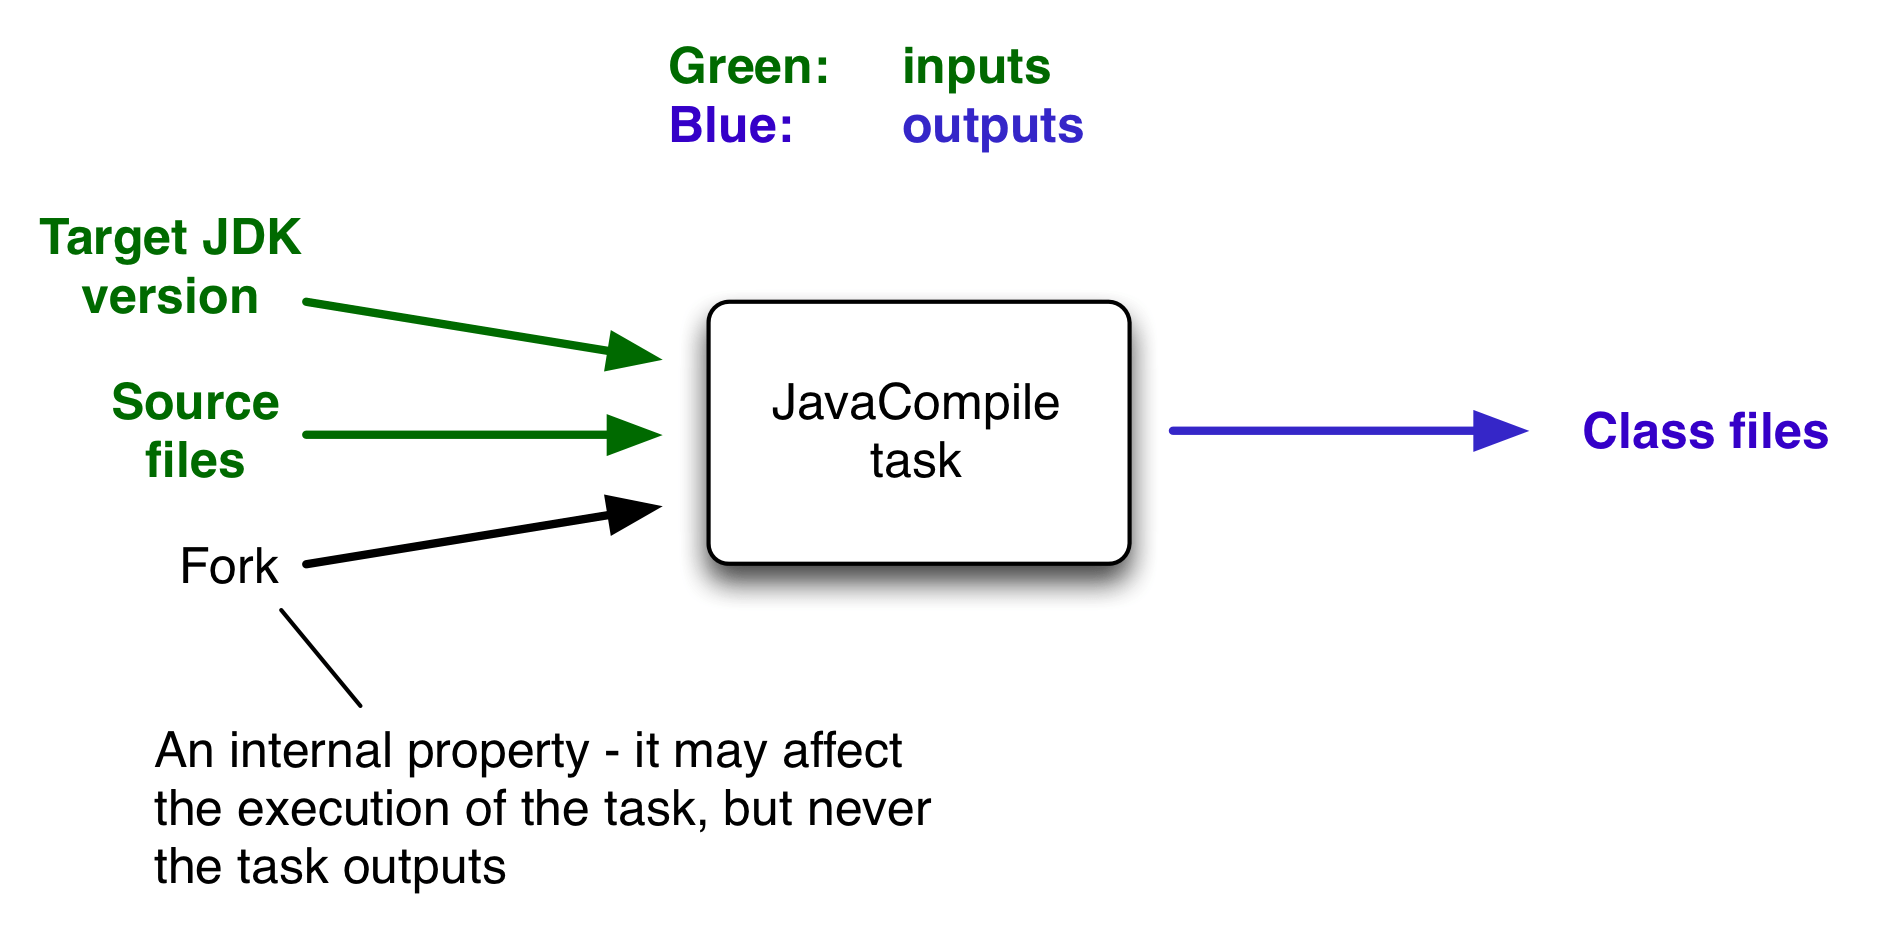
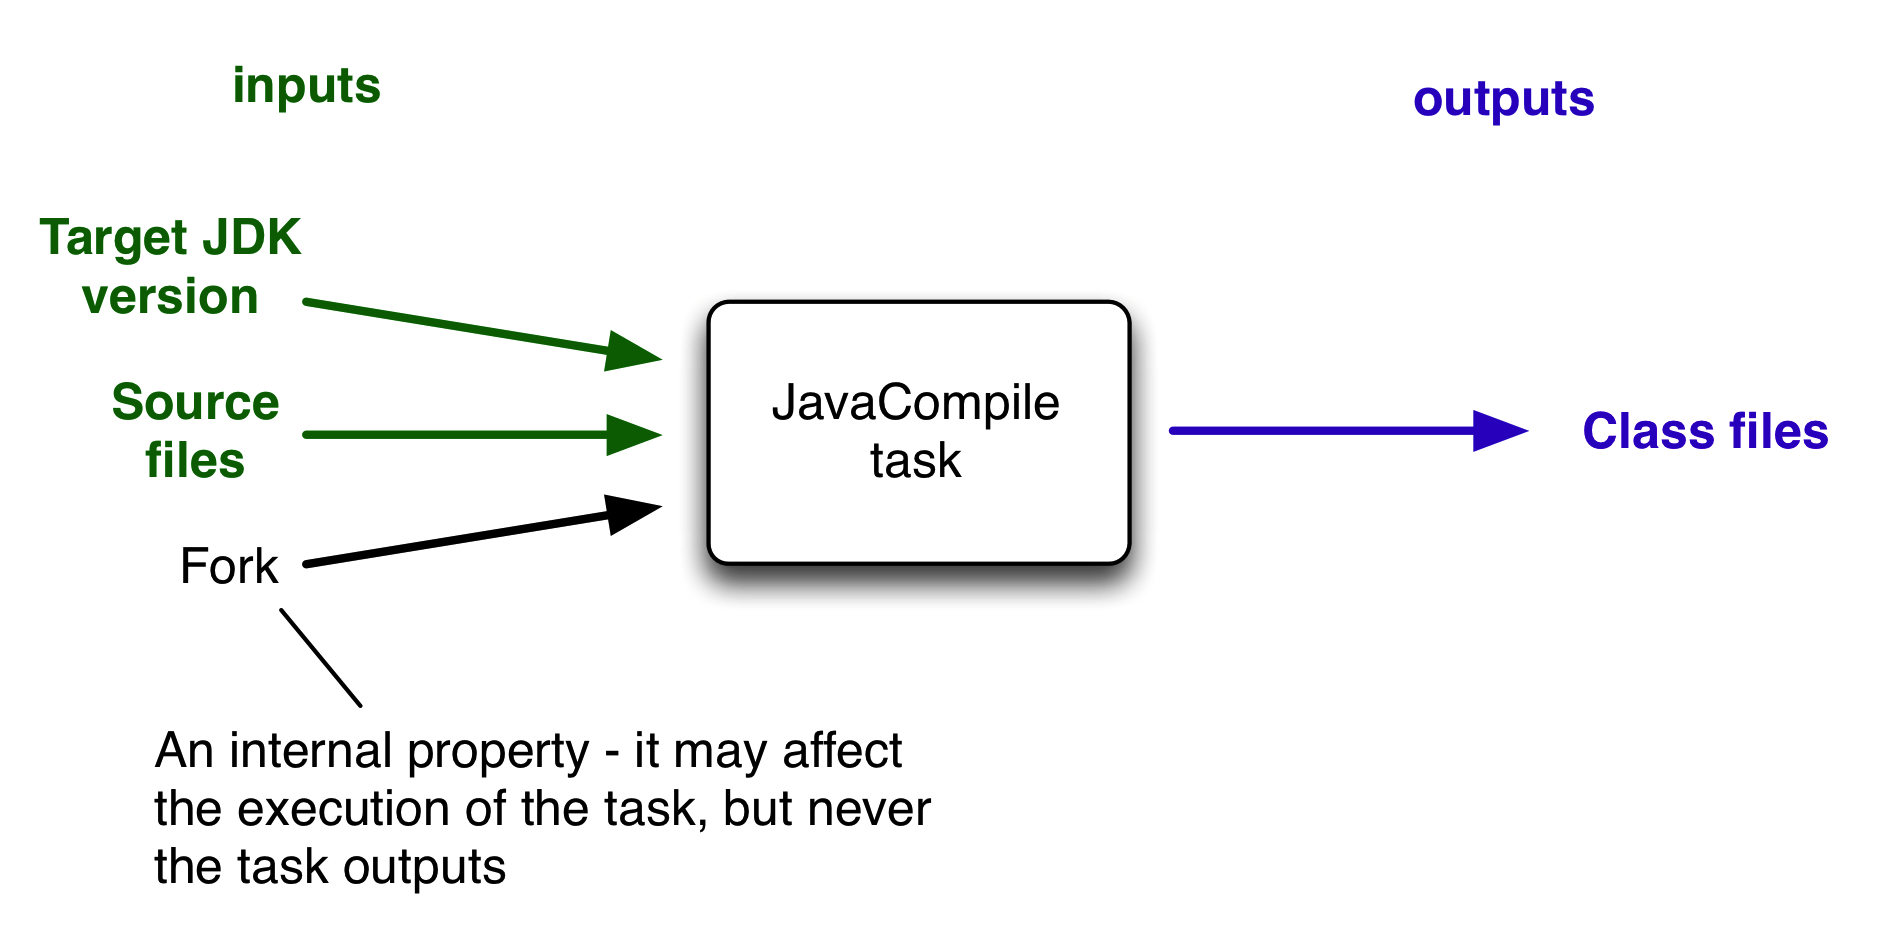
Fix Java task image

diff --git a/docs/plan.md b/docs/plan.md
@@ -75,8 +75,6 @@
     - PathSensitive
     - Classpath
     - CompileClasspath
-    - content normalization, ABI, jar normalization
-    - filtering, build-info.properties
   - [java plugin configurations](images/java-plugin-configurations.png)
 
 #### Перерыв
@@ -141,6 +139,8 @@
 - productionOnly dependency scope
 
 #### Steps
+- content normalization:
+  - filtering, build-info.properties
 
 - build script dependency
 - spring boot plugin productionRuntimeClasspath
